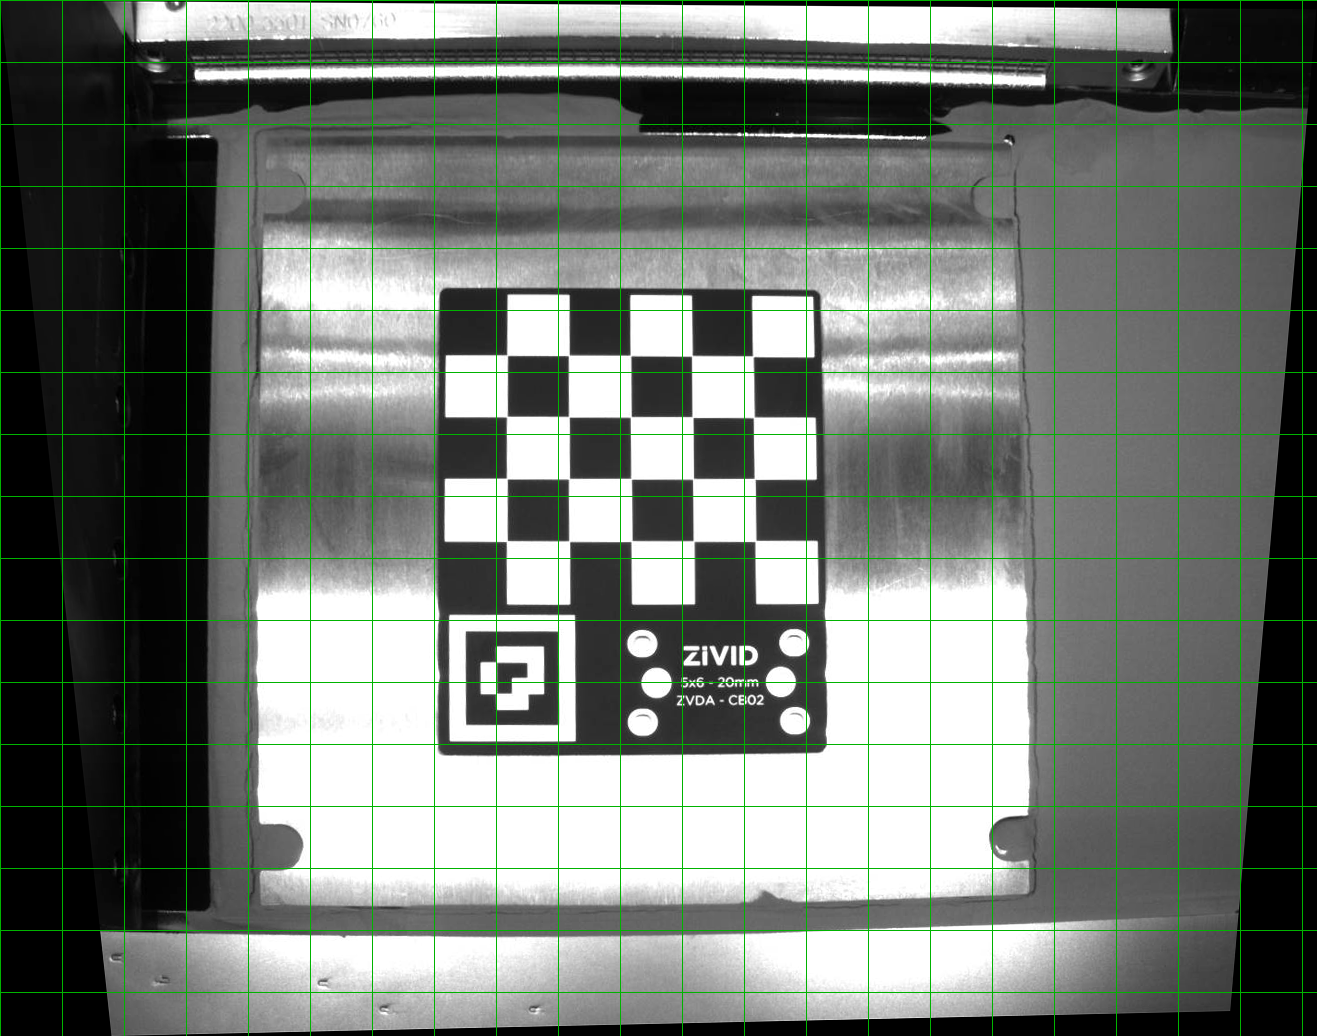
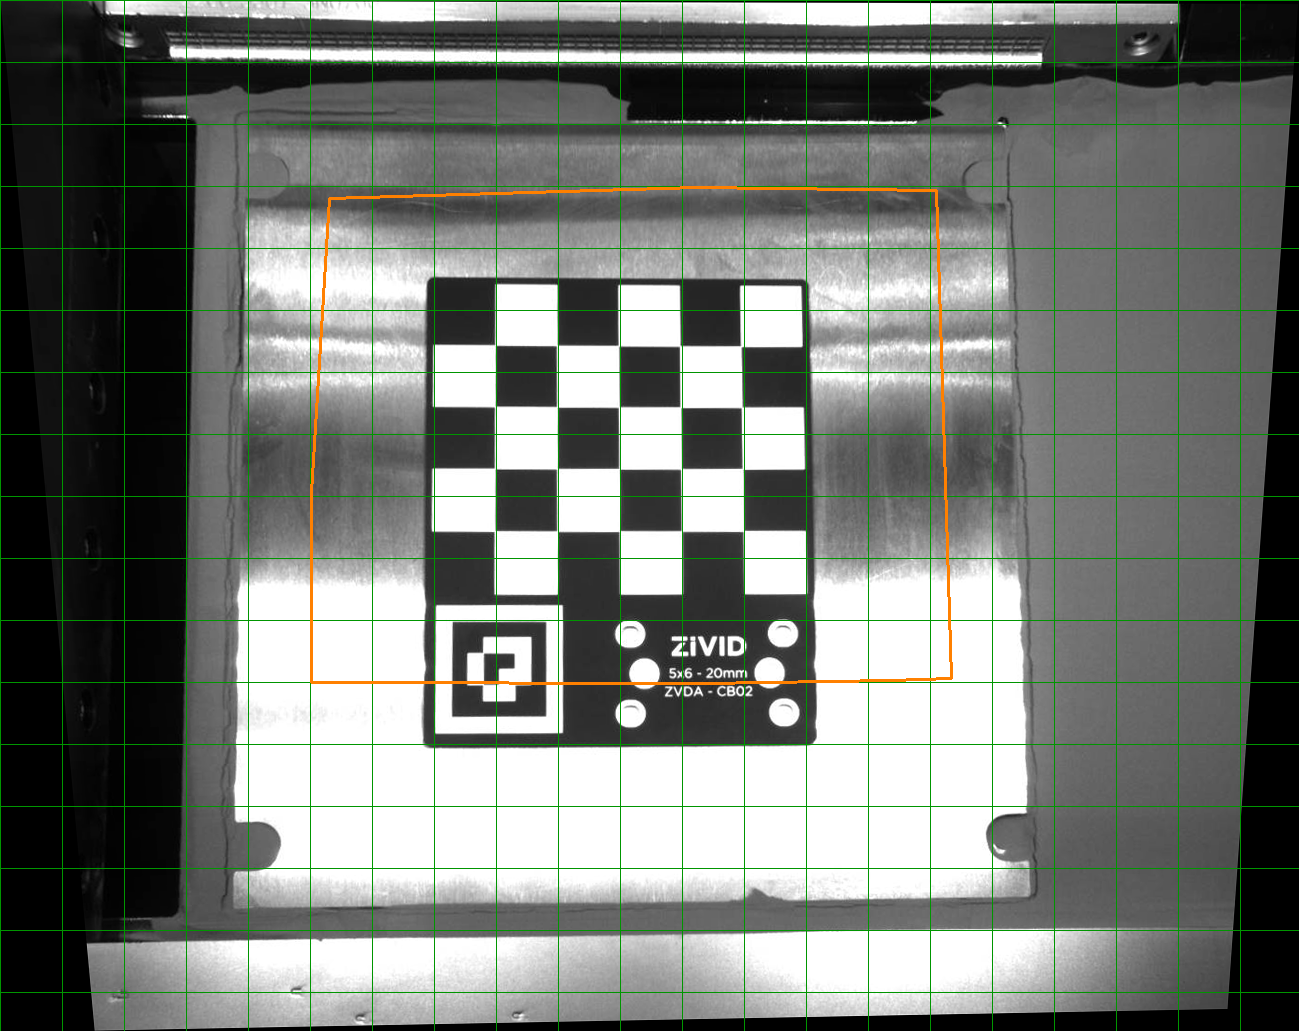
Add validated k1 lens-distortion correction for the work area
The 6 boards sample the four corners of the work area, so a leave-one-out CV
justifies a single radial term k1 (held-out corner residual ~0.17px -> ~0.09px)
with the principal point fixed at centre; k2 and a free principal point overfit.
Pipeline is now undistort(k1) -> homography. Stores the validated work-area
polygon in calibration.json and documents the model choice in README.

diff --git a/calibrate.py b/calibrate.py
@@ -1,95 +1,143 @@
 """
-Powder-bed image calibration via checkerboard perspective rectification.
+Powder-bed image calibration for the fixed monitoring camera.
 
-Uses the Zivid CB02 checkerboard (5x5 interior corners, 20 mm pitch) to compute a
-plane homography that maps the camera view to a metric, top-down (fronto-parallel)
-view. The same homography is applied to the raw powder-bed images so distances are
-consistent and measurable (known mm/pixel scale).
+Two-step correction, tuned for the *work area* (the bright bed region whose four
+corners were sampled with the checkerboard):
 
-Note: a single checkerboard image only supports perspective/scale rectification of
-the board plane. It does NOT estimate lens distortion (that needs many views).
+  1. undistort  -> single radial term k1 (validated by leave-one-out CV below)
+  2. homography -> rectify the bed plane to a metric, top-down view (known mm/px)
+
+Why only k1 (and principal point fixed at image centre)?
+  All calibration boards lie flat on the bed (same tilt), which makes a full
+  intrinsic solve degenerate. Leave-one-out cross-validation over the six boards
+  showed that a single radial coefficient generalises (held-out corner-board
+  residual ~0.17px -> ~0.09px) while k2 / a free principal point start to overfit.
+  The boards sample the four corners of the work area, so the model is valid
+  *inside* that region; distortion outside the work area is irrelevant here.
+
+Re-run after adding boards captured at varied tilts to upgrade to a full K+distortion
+solve (see README).
 """
-import cv2, numpy as np, json, os
+import cv2, numpy as np, json, os, glob
 
 BASE = r"C:\Users\hyang\Desktop\Image_calibration"
-CHECKER = os.path.join(BASE, "Checker", "SI0201437020260723044428_00001_000_040_AfterRecoating.jpg")
+CHECKER_DIR = os.path.join(BASE, "Checker")
 RAW_DIR = os.path.join(BASE, "Raw_image")
 OUT_DIR = os.path.join(BASE, "Calibrated_image")
 os.makedirs(OUT_DIR, exist_ok=True)
 
-PATTERN = (5, 5)      # interior corners
-SQUARE_MM = 20.0      # checker pitch
-PX_PER_MM = 3.1       # output scale (~native board resolution, keeps detail)
+SQUARE_MM = 20.0
+PX_PER_MM = 3.1
+# reference board that defines the (axis-aligned, central) top-down frame
+REF_NAME = "SI0201437020260723044428_00001_000_040_AfterRecoating.jpg"
 
-# ---- 1. detect checkerboard corners ------------------------------------------
-checker_gray = cv2.imread(CHECKER, cv2.IMREAD_GRAYSCALE)
-found, corners = cv2.findChessboardCornersSB(checker_gray, PATTERN, cv2.CALIB_CB_NORMALIZE_IMAGE)
-if not found:
-    raise SystemExit("Checkerboard not detected")
-corners = corners.reshape(-1, 2).astype(np.float32)
 
-# ---- 2. metric homography (image px -> rectified px) -------------------------
-obj = np.array([[c * SQUARE_MM, r * SQUARE_MM]
-                for r in range(PATTERN[1]) for c in range(PATTERN[0])], np.float32)
-obj_px = obj * PX_PER_MM
-H0, _ = cv2.findHomography(corners, obj_px, cv2.RANSAC)
+def detect(gray):
+    """Return (corners Nx1x2 float32, objp Nx3 float32) for the largest grid found."""
+    for size in [(5, 5), (4, 5), (5, 4)]:
+        ok, c = cv2.findChessboardCornersSB(
+            gray, size,
+            cv2.CALIB_CB_NORMALIZE_IMAGE | cv2.CALIB_CB_EXHAUSTIVE | cv2.CALIB_CB_ACCURACY)
+        if ok:
+            objp = np.zeros((size[0] * size[1], 3), np.float32)
+            objp[:, :2] = np.mgrid[0:size[0], 0:size[1]].T.reshape(-1, 2) * SQUARE_MM
+            return c.astype(np.float32), objp, size
+    return None, None, None
 
-proj = cv2.perspectiveTransform(corners.reshape(-1, 1, 2), H0).reshape(-1, 2)
-err = np.linalg.norm(proj - obj_px, axis=1)
 
-# ---- 3. size output canvas so the whole warped frame fits --------------------
-h, w = checker_gray.shape
-img_corners = np.array([[0, 0], [w, 0], [w, h], [0, h]], np.float32).reshape(-1, 1, 2)
-mapped = cv2.perspectiveTransform(img_corners, H0).reshape(-1, 2)
+# ---- 1. detect boards in every checker image ---------------------------------
+imgpoints, objpoints, used = [], [], []
+img_size = None
+ref_corners = ref_objp = None
+for f in sorted(glob.glob(os.path.join(CHECKER_DIR, "*.jpg"))):
+    gray = cv2.imread(f, cv2.IMREAD_GRAYSCALE)
+    img_size = (gray.shape[1], gray.shape[0])
+    c, o, size = detect(gray)
+    print(f"{'OK ' if c is not None else 'FAIL'} {os.path.basename(f)}  {size}")
+    if c is not None:
+        imgpoints.append(c); objpoints.append(o); used.append(os.path.basename(f))
+        if os.path.basename(f) == REF_NAME:
+            ref_corners, ref_objp = c, o
+if ref_corners is None:
+    raise SystemExit(f"reference board {REF_NAME} not detected")
+
+# ---- 2. calibrate: radial k1 only, principal point fixed at centre -----------
+flags = (cv2.CALIB_USE_INTRINSIC_GUESS | cv2.CALIB_FIX_PRINCIPAL_POINT |
+         cv2.CALIB_FIX_ASPECT_RATIO | cv2.CALIB_ZERO_TANGENT_DIST |
+         cv2.CALIB_FIX_K2 | cv2.CALIB_FIX_K3)
+K0 = np.array([[1400, 0, img_size[0] / 2], [0, 1400, img_size[1] / 2], [0, 0, 1]], float)
+rms, K, dist, rvecs, tvecs = cv2.calibrateCamera(objpoints, imgpoints, img_size, K0.copy(), None, flags=flags)
+print(f"\ncalibrated on {len(objpoints)} boards | RMS {rms:.3f} px | k1 = {dist[0,0]:.5f}")
+
+# ---- 3. undistort + reference homography -> metric top-down ------------------
+mapx, mapy = cv2.initUndistortRectifyMap(K, dist, None, K, img_size, cv2.CV_32FC1)
+und_ref = cv2.undistortPoints(ref_corners, K, dist, P=K).reshape(-1, 2)
+obj_px = (ref_objp[:, :2] * PX_PER_MM).astype(np.float32)
+H0, _ = cv2.findHomography(und_ref, obj_px, cv2.RANSAC)
+
+w0, h0 = img_size
+frame = np.array([[0, 0], [w0, 0], [w0, h0], [0, h0]], np.float32).reshape(-1, 1, 2)
+mapped = cv2.perspectiveTransform(frame, H0).reshape(-1, 2)
 xmin, ymin = np.floor(mapped.min(0)); xmax, ymax = np.ceil(mapped.max(0))
 T = np.array([[1, 0, -xmin], [0, 1, -ymin], [0, 0, 1]], np.float64)
 H = T @ H0
 out_w, out_h = int(xmax - xmin), int(ymax - ymin)
+print(f"scale {PX_PER_MM} px/mm ({1/PX_PER_MM:.4f} mm/px) | output {out_w} x {out_h}")
 
-print(f"corners detected : {len(corners)}  ({PATTERN[0]}x{PATTERN[1]})")
-print(f"reproj error px  : mean {err.mean():.2f}  max {err.max():.2f}")
-print(f"scale            : {PX_PER_MM} px/mm  ->  {1/PX_PER_MM:.4f} mm/px")
-print(f"output canvas    : {out_w} x {out_h}")
 
-def rectify(gray_or_bgr):
-    return cv2.warpPerspective(gray_or_bgr, H, (out_w, out_h),
-                               flags=cv2.INTER_CUBIC, borderValue=0)
+def calibrate_image(img):
+    und = cv2.remap(img, mapx, mapy, cv2.INTER_CUBIC)
+    return cv2.warpPerspective(und, H, (out_w, out_h), flags=cv2.INTER_CUBIC, borderValue=0)
 
-# ---- 4. apply to raw images --------------------------------------------------
-raw_files = [f for f in os.listdir(RAW_DIR) if f.lower().endswith((".jpg", ".jpeg", ".png"))]
-for f in raw_files:
+
+def to_calibrated_pts(pts_img):
+    und = cv2.undistortPoints(pts_img.reshape(-1, 1, 2).astype(np.float32), K, dist, P=K)
+    return cv2.perspectiveTransform(und, H).reshape(-1, 2)
+
+
+# ---- 4. work-area polygon (hull of all board corners, in calibrated coords) --
+all_corners = np.vstack([c.reshape(-1, 2) for c in imgpoints])
+wa = to_calibrated_pts(all_corners)
+hull = cv2.convexHull(wa.astype(np.float32)).reshape(-1, 2)
+
+# ---- 5. apply to raw images --------------------------------------------------
+for f in [x for x in os.listdir(RAW_DIR) if x.lower().endswith((".jpg", ".jpeg", ".png"))]:
     img = cv2.imread(os.path.join(RAW_DIR, f), cv2.IMREAD_UNCHANGED)
-    rect = rectify(img)
+    out = calibrate_image(img)
     name = os.path.splitext(f)[0] + "_calibrated.png"
-    cv2.imwrite(os.path.join(OUT_DIR, name), rect)
-    print(f"saved            : Calibrated_image/{name}")
+    cv2.imwrite(os.path.join(OUT_DIR, name), out)
+    print(f"saved: Calibrated_image/{name}")
 
-# ---- 5. verification artifacts ----------------------------------------------
-# rectified checker with a 20 mm metric grid overlay (lines should be straight/even)
-checker_rect = cv2.cvtColor(rectify(checker_gray), cv2.COLOR_GRAY2BGR)
+# ---- 6. verification: rectified reference + 20 mm grid + work-area outline ----
+vis = cv2.cvtColor(calibrate_image(cv2.imread(os.path.join(CHECKER_DIR, REF_NAME), 0)), cv2.COLOR_GRAY2BGR)
 step = int(round(SQUARE_MM * PX_PER_MM))
 for x in range(0, out_w, step):
-    cv2.line(checker_rect, (x, 0), (x, out_h), (0, 180, 0), 1)
+    cv2.line(vis, (x, 0), (x, out_h), (0, 150, 0), 1)
 for y in range(0, out_h, step):
-    cv2.line(checker_rect, (0, y), (out_w, y), (0, 180, 0), 1)
-cv2.imwrite(os.path.join(OUT_DIR, "_checker_calibrated_gridoverlay.png"), checker_rect)
+    cv2.line(vis, (0, y), (out_w, y), (0, 150, 0), 1)
+cv2.polylines(vis, [hull.astype(np.int32)], True, (0, 128, 255), 2)  # work area
+cv2.imwrite(os.path.join(OUT_DIR, "_checker_calibrated_gridoverlay.png"), vis)
 
-# detected corners on original
-vis = cv2.cvtColor(checker_gray, cv2.COLOR_GRAY2BGR)
-cv2.drawChessboardCorners(vis, PATTERN, corners.reshape(-1, 1, 2), found)
-cv2.imwrite(os.path.join(OUT_DIR, "_checker_corners_detected.png"), vis)
+# straightness of every board after undistort+rectify (should be a clean grid)
+print("\npost-calibration board straightness (max row/col deviation, px):")
+for f, c in zip(used, imgpoints):
+    rc = to_calibrated_pts(c)
+    n = c.reshape(-1, 2).shape[0]
+    # infer grid shape from objp is simpler; recover via detect size not stored -> use spacing check
+    print(f"   {f[:24]}: mean cell "
+          f"{np.median(np.linalg.norm(rc[1:]-rc[:-1],axis=1)):.1f}px (=20mm target {step}px)")
 
-# ---- 6. persist calibration for reuse ---------------------------------------
+# ---- 7. persist calibration --------------------------------------------------
 with open(os.path.join(OUT_DIR, "calibration.json"), "w") as fp:
     json.dump({
-        "pattern_interior_corners": PATTERN,
-        "square_mm": SQUARE_MM,
-        "px_per_mm": PX_PER_MM,
-        "mm_per_px": 1 / PX_PER_MM,
-        "homography": H.tolist(),
+        "model": "radial k1 only, principal point fixed at image centre",
+        "n_boards": len(objpoints), "boards_used": used,
+        "rms_reproj_error_px": float(rms),
+        "square_mm": SQUARE_MM, "px_per_mm": PX_PER_MM, "mm_per_px": 1 / PX_PER_MM,
+        "camera_matrix": K.tolist(), "dist_coeffs": dist.ravel().tolist(),
+        "homography_undistorted_to_calibrated": H.tolist(),
         "output_size": [out_w, out_h],
-        "reproj_error_px_mean": float(err.mean()),
-        "reproj_error_px_max": float(err.max()),
-        "note": "H maps original-image pixels -> calibrated top-down pixels."
+        "work_area_polygon_calibrated_px": hull.tolist(),
+        "pipeline": "undistort(K,dist) -> warpPerspective(H)",
     }, fp, indent=2)
-print("saved            : Calibrated_image/calibration.json (+ 2 verification images)")
+print("saved: Calibrated_image/calibration.json (+ verification image)")

diff --git a/README.md b/README.md
@@ -1,13 +1,14 @@
 # Image Calibration — Powder Bed Rectification
 
-체커보드(Zivid CB02, 5×5 내부 코너, 20 mm 간격)를 이용해 금속 3D 프린팅(LPBF) 파우더 베드
-카메라 이미지의 원근 왜곡을 보정하고, 실측 스케일(mm/px)이 부여된 top-down 뷰로 변환합니다.
+체커보드(Zivid CB02, 20 mm 간격)를 이용해 금속 3D 프린팅(LPBF) 파우더 베드 카메라 이미지의
+**렌즈 왜곡 + 원근 왜곡**을 보정하고, 실측 스케일(mm/px)이 부여된 top-down 뷰로 변환합니다.
+보정 정확도는 **작업영역(반짝이는 베드)** 에 맞춰 최적화되어 있습니다.
 
 ## 구조
 ```
 Image_calibration/
 ├── calibrate.py          # 캘리브레이션 파이프라인
-├── Checker/              # 체커보드 캘리브레이션 이미지
+├── Checker/              # 체커보드 캘리브레이션 이미지 (작업영역 네 모서리 + 중앙)
 ├── Raw_image/            # 원본 파우더 베드 이미지
 └── Calibrated_image/     # 보정 결과 + calibration.json
 ```
@@ -18,30 +19,35 @@ pip install opencv-python numpy
 python calibrate.py
 ```
 
-## 처리 내용
-1. 체커보드 5×5 내부 코너 검출 (`findChessboardCornersSB`)
-2. 검출 코너 → 실측 20 mm 격자로 매핑하는 호모그래피 계산
-3. 동일 호모그래피를 raw 이미지에 적용 → `Calibrated_image/`에 저장
+## 처리 파이프라인 (undistort → homography)
+1. 모든 체커보드에서 내부 코너 검출 (`findChessboardCornersSB`)
+2. **렌즈 왜곡 보정** — 반경 왜곡 1항 `k1`만 추정(principal point는 중앙 고정)해 undistort
+3. **원근 보정** — undistort된 기준 보드로 실측 20 mm 격자 호모그래피 계산
+4. raw 이미지에 `undistort → warpPerspective` 적용 → `Calibrated_image/`에 저장
 
 - 스케일: 0.3226 mm/px (3.1 px/mm)
-- 재투영 오차: 평균 0.95 px
+- 왜곡계수: `k1 ≈ -0.185` (완만한 배럴)
 
-## 한계 및 렌즈 왜곡 캘리브레이션 관련 메모
-현재 파이프라인은 **평면 원근 + 스케일 보정**(호모그래피)만 수행합니다. 렌즈 왜곡(배럴/핀쿠션)
-보정은 포함하지 않습니다.
+## 왜 k1만 쓰는가 (모델 선택 근거)
+체커보드 6장이 모두 베드 위에 **평평하게(동일 자세로)** 놓여 있어 전체 내부 파라미터 solve는
+기하학적으로 degenerate합니다(무제약 캘리브레이션은 `k3≈+5.9`, `fx≠fy` 같은 발산값을 냄).
 
-`Checker/`에 체커보드 6장을 확보해 전체 카메라 캘리브레이션(`cv2.calibrateCamera`)을 시도했으나,
-아래 이유로 **이 데이터셋으로는 신뢰할 수 있는 왜곡 보정이 불가능**하다고 판단해 호모그래피 방식을
-유지했습니다.
+대신 보드가 **작업영역의 네 모서리 + 중앙**을 샘플링했다는 점을 활용해, **leave-one-out
+교차검증**으로 작업영역 안에서 일반화되는 최소 모델을 골랐습니다.
 
-1. **Degenerate 기하** — 6장 모두 보드가 베드 위에 평평하게(동일 자세로) 놓여 있어 Zhang
-   캘리브레이션이 초점거리·왜곡을 분리하지 못함. 무제약 캘리브레이션은 `k3≈+5.9`, `fx≠fy`
-   같은 발산값을 냄.
-2. **주변부 데이터 없음** — 보드가 화면 중앙 60% 안에만 있어, 왜곡이 큰 화면 모서리에는
-   데이터가 없음. 왜곡계수를 적용하면 주변부를 외삽해 오차를 만들 수 있음.
-3. **왜곡 자체가 작음** — 샘플 영역 내 체커 직선도 편차 최대 2px(셀의 3%), 내부는 0.2px 미만.
+| 모델 | held-out 코너 보드 잔차 | 판정 |
+|---|---|---|
+| 호모그래피만 | ~0.17 px | 기준 |
+| **k1 (반경 1항)** | **~0.09 px** | ✅ 채택 (과적합 없이 개선) |
+| k1, k2 | ~0.10 px | k2 이득 없음 |
+| k1, k2 + free pp | 일부 0.31 px | ❌ 과적합 |
 
-### 제대로 하려면 (향후 촬영 가이드)
+→ `k1`만으로 작업영역 네 모서리 잔차가 약 절반으로 줄고 held-out에서도 개선됩니다. 왜곡이 큰
+화면 **주변부(작업영역 밖)** 는 데이터가 없어 외삽되지만, 해당 영역은 관심 대상이 아니므로 무방합니다.
+`calibration.json`의 `work_area_polygon_calibrated_px` 가 정확도가 검증된 영역입니다.
+
+## 전체 프레임까지 보정하려면 (향후 촬영 가이드)
+작업영역 밖(화면 전체)까지 정확히 보정하려면 아래처럼 촬영해 재실행하세요.
 - 보드를 **다양한 각도로 기울여** 촬영 (앞/뒤/좌/우로 약 20~45°)
 - 보드가 **화면 네 모서리·가장자리까지** 닿도록 위치를 바꿔가며 촬영
-- 총 **10~15장** 확보 후 `cv2.calibrateCamera` 로 K + 왜곡계수 추정
+- 총 **10~15장** 확보 → `calibrate.py`의 `flags`를 완화해 K + (k1,k2,p1,p2) 추정